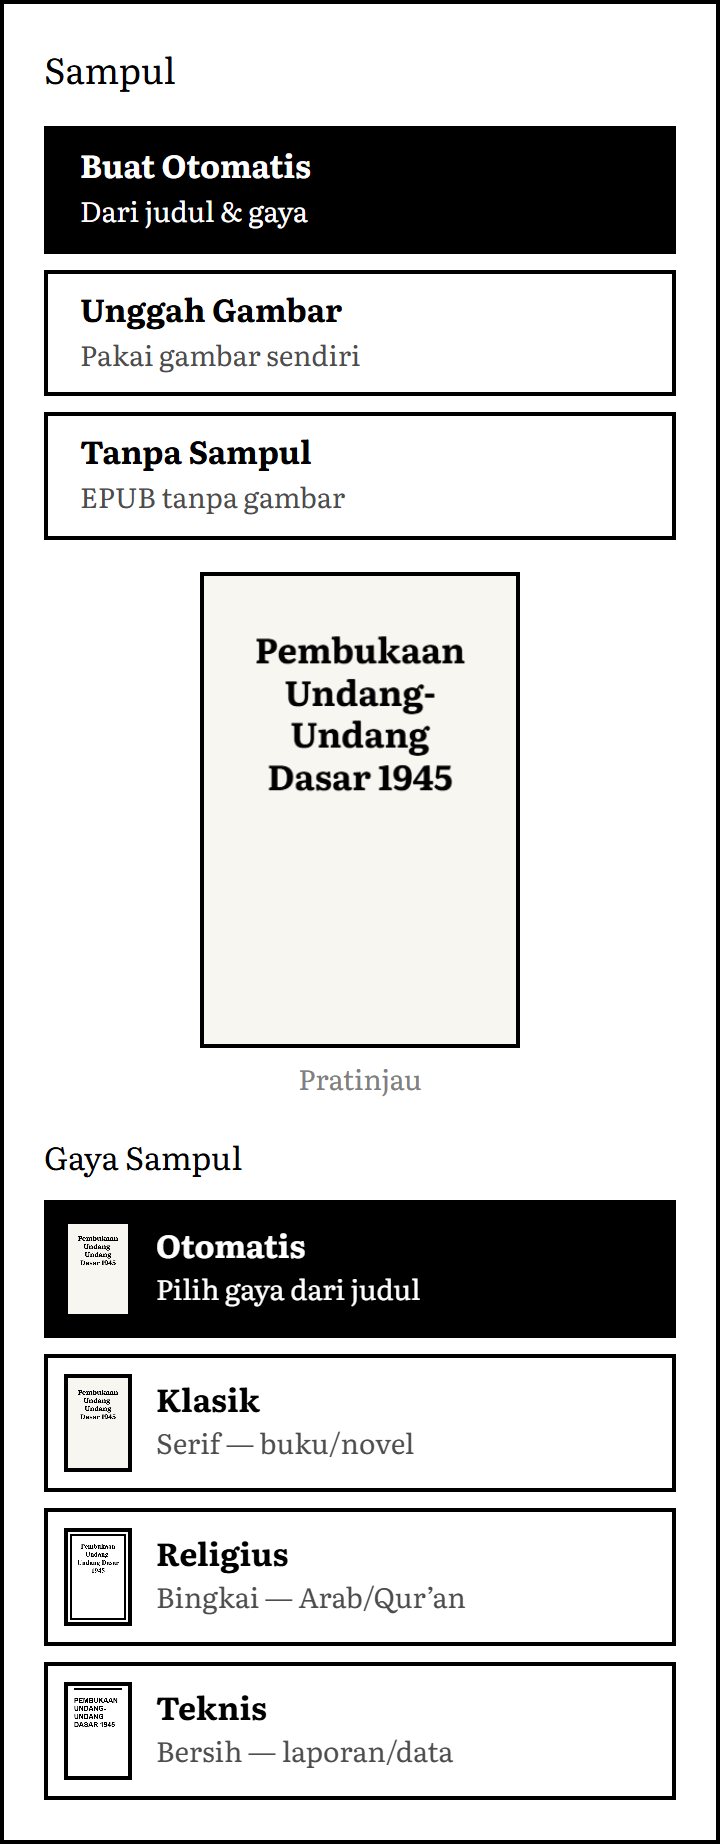
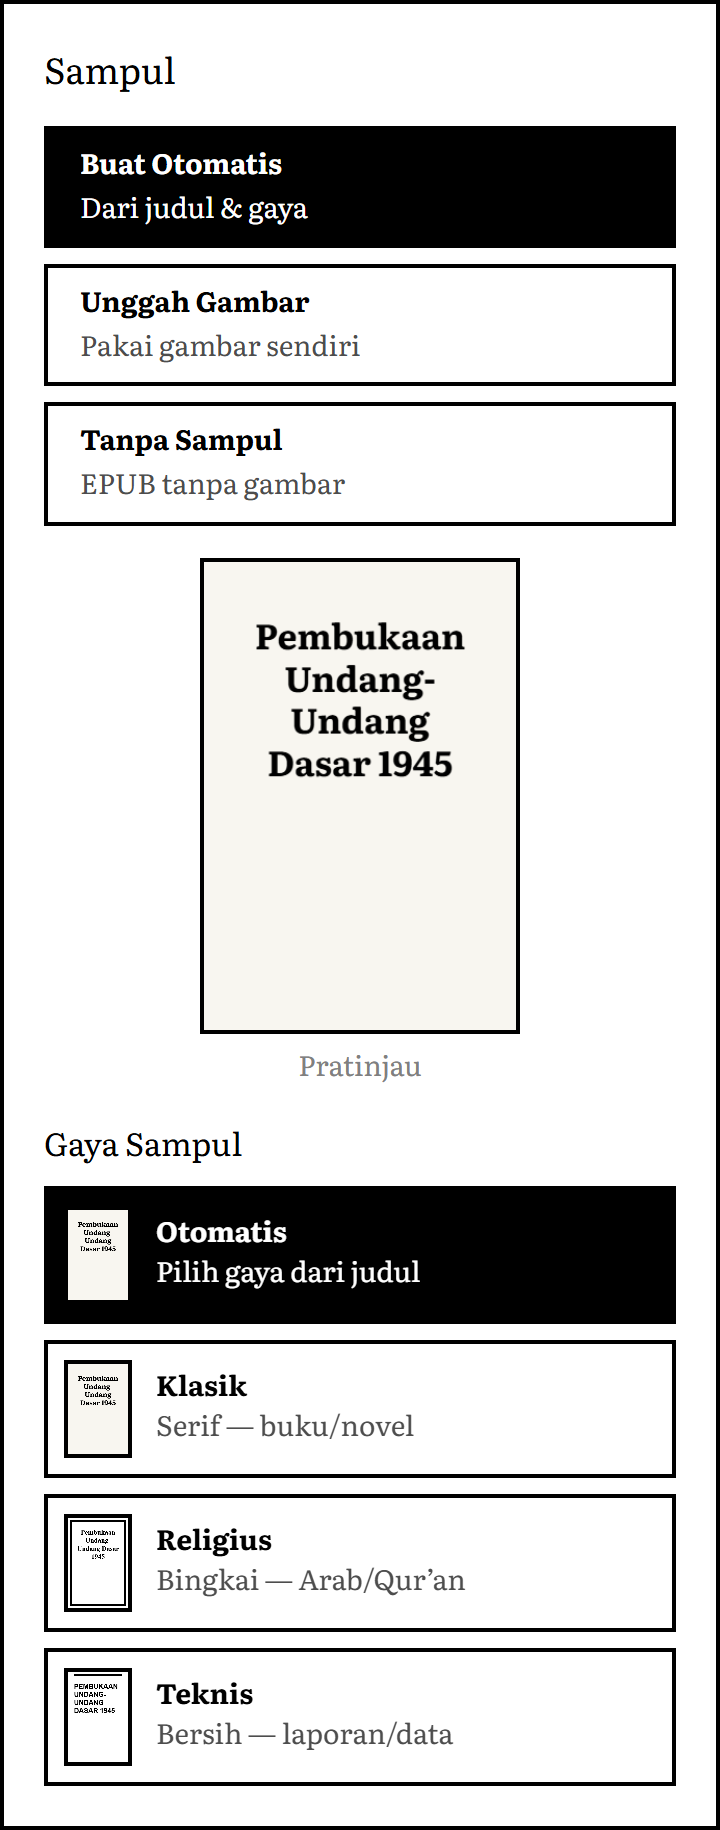
fix(ui): kecilkan font tombol di mobile (text-button-sm 14px, sm: 16px)
- tambah token fontSize button-sm (14px/600) untuk mobile
- btn-eink, SegmentedOption, OptionCard, kartu gaya Sampul: text-button-sm sm:text-button
- SegmentedOption padding px-2 sm:px-3 agar label panjang tak membungkus
- regenerasi 14 screenshot dengan tombol baru

diff --git a/src/ui/primitives.tsx b/src/ui/primitives.tsx
@@ -100,7 +100,7 @@ export function OptionCard({
                   disabled:cursor-not-allowed disabled:border-gray-400 disabled:bg-paper-soft disabled:text-ink-faint
                   focus-visible:outline-none focus-visible:border-dashed`}
     >
-      <span className="font-ui text-button">{title}</span>
+      <span className="font-ui text-button-sm sm:text-button">{title}</span>
       <span className={`font-ui text-body ${active ? 'text-white' : 'text-ink-muted'}`}>{desc}</span>
     </button>
   )
@@ -124,7 +124,7 @@ export function SegmentedOption({
       onClick={onClick}
       disabled={disabled}
       aria-pressed={active}
-      className={`min-h-tap min-w-0 flex-1 border-eink border-black px-3 font-ui text-button
+      className={`min-h-tap min-w-0 flex-1 border-eink border-black px-2 sm:px-3 font-ui text-button-sm sm:text-button
                   ${active ? 'bg-black text-white' : 'bg-white text-black'}
                   disabled:text-ink-faint disabled:border-gray-400 disabled:bg-paper-soft disabled:cursor-not-allowed
                   focus-visible:outline-none focus-visible:border-dashed`}

diff --git a/tailwind.config.ts b/tailwind.config.ts
@@ -48,6 +48,8 @@ export default {
       body: ['14px', { lineHeight: '1.6' }],
       'body-lg': ['16px', { lineHeight: '1.6' }],
       button: ['16px', { lineHeight: '1.2', fontWeight: '600' }],
+      // Varian tombol lebih kecil untuk mobile (label panjang tak membungkus 2 baris)
+      'button-sm': ['14px', { lineHeight: '1.2', fontWeight: '600' }],
       subtitle: ['18px', { lineHeight: '1.4', fontWeight: '500' }],
       title: ['24px', { lineHeight: '1.3', fontWeight: '700' }],
       // Konten Arab butuh line-height longgar agar harakat tidak bertumpuk

diff --git a/src/ui/CoverPanel.tsx b/src/ui/CoverPanel.tsx
@@ -119,7 +119,7 @@ export function CoverPanel({
                       <CoverCanvas title={title} theme={s.id} width={34} />
                     </span>
                     <span className="flex min-w-0 flex-col">
-                      <span className="font-ui text-button">{s.label}</span>
+                      <span className="font-ui text-button-sm sm:text-button">{s.label}</span>
                       <span className={`font-ui text-body ${active ? 'text-white' : 'text-ink-muted'}`}>
                         {s.desc}
                       </span>

diff --git a/src/styles/index.css b/src/styles/index.css
@@ -71,7 +71,7 @@
   /* Tombol E-Ink standar: border tegas 2px, solid fill, tap target besar, tanpa animasi */
   .btn-eink {
     @apply inline-flex items-center justify-center min-h-tap px-5 border-eink border-black
-           bg-white text-black font-ui text-button select-none;
+           bg-white text-black font-ui text-button-sm sm:text-button select-none;
   }
 
   .btn-eink--inverted {
